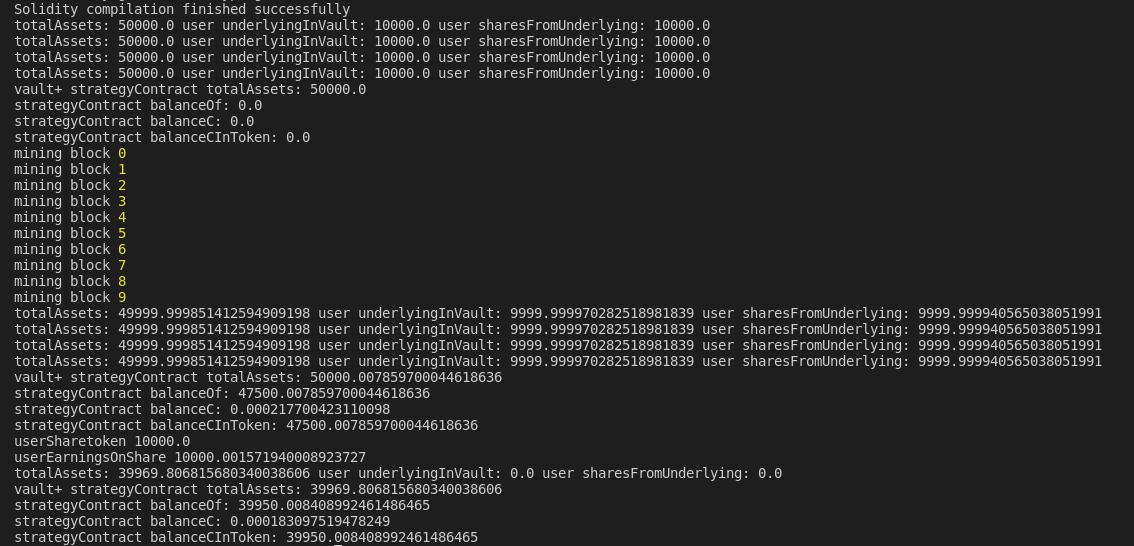
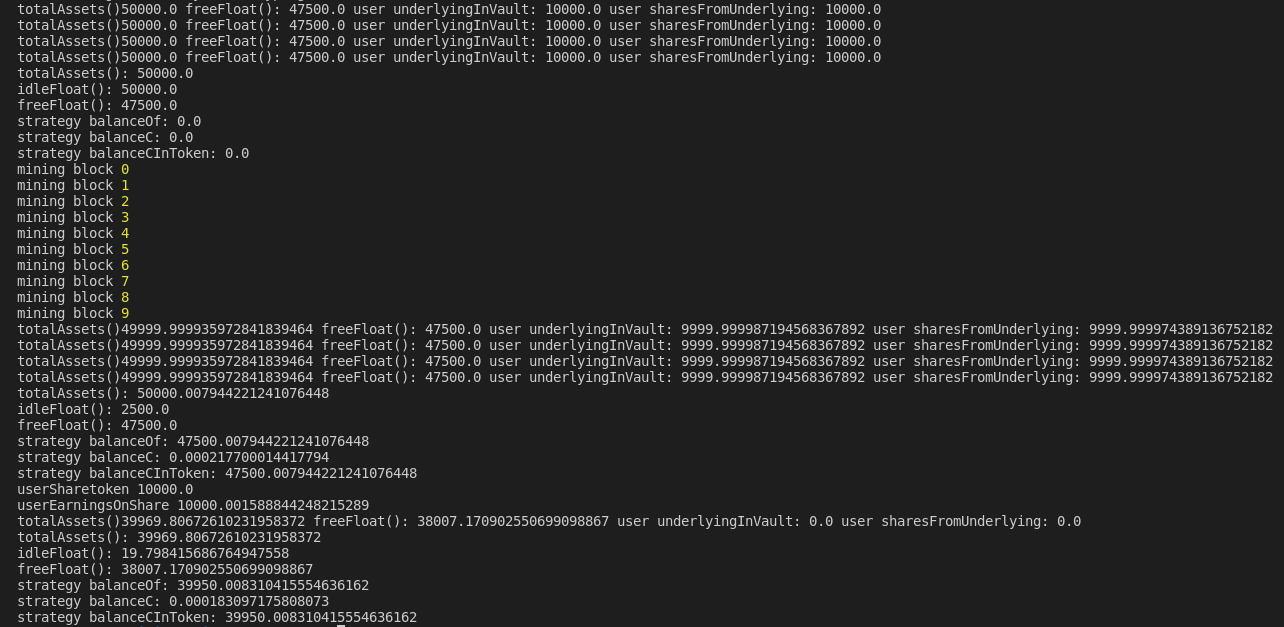
update: track funds with float logic, update to newest interface, example hook

Changed region(s): [[0.0, 0.0, 1.0, 1.0]]

diff --git a/scripts/helpers/helpers.ts b/scripts/helpers/helpers.ts
@@ -8,12 +8,12 @@ export async function checkUserBalances(signers: SignerWithAddress[], vaultContr
       const userUnderlyingInVault = await vaultInstance.assetsOf(signers[i].address);
       const userSharesFromUnderlying = await vaultInstance.previewRedeem(userUnderlyingInVault);
       const totalUnderlyingInVault = await vaultInstance.totalAssets();
-      const availableInVaultOutsideStrat = await vaultInstance.available();
+      const availableInVaultOutsideStrat = await vaultInstance.freeFloat();
       const result =
-        "vault+strategyContract totalAssets:: " +
-        ethers.utils.formatUnits(totalUnderlyingInVault) +
-        " availableInVaultOutsideStrat: " +
-        ethers.utils.formatUnits(availableInVaultOutsideStrat) +
+      "totalAssets()" +
+      ethers.utils.formatUnits(totalUnderlyingInVault) +
+      " freeFloat(): " +
+      ethers.utils.formatUnits(availableInVaultOutsideStrat) +
         " user underlyingInVault: " +
         ethers.utils.formatUnits(userUnderlyingInVault.toString()) +
         " user sharesFromUnderlying: " +
@@ -27,11 +27,11 @@ export async function checkSingleBalance(signer: SignerWithAddress, vaultContrac
       const userUnderlyingInVault = await vaultInstance.assetsOf(signer.address);
       const userSharesFromUnderlying = await vaultInstance.previewRedeem(userUnderlyingInVault);
       const totalUnderlyingInVault = await vaultInstance.totalAssets();
-      const availableInVaultOutsideStrat = await vaultInstance.available();
+      const availableInVaultOutsideStrat = await vaultInstance.freeFloat();
       const result =
-        "vault+strategyContract totalAssets: " +
+        "totalAssets()" +
         ethers.utils.formatUnits(totalUnderlyingInVault) +
-        " availableInVaultOutsideStrat: " +
+        " freeFloat(): " +
         ethers.utils.formatUnits(availableInVaultOutsideStrat) +
         " user underlyingInVault: " +
         ethers.utils.formatUnits(userUnderlyingInVault.toString()) +
@@ -43,19 +43,26 @@ export async function checkSingleBalance(signer: SignerWithAddress, vaultContrac
 
 export async function vaultBalanceSheet(vaultContract: Contract, strategyContract: Contract) {
     const balance = await vaultContract.totalAssets();
-    console.log("vault+strategyContract totalAssets:", ethers.utils.formatUnits(balance.toString()))
-    const availableInVaultOutsideStrat = await vaultContract.available();
-    console.log("availableInVaultOutsideStrat:", ethers.utils.formatUnits(availableInVaultOutsideStrat.toString()))
+    console.log("totalAssets():", ethers.utils.formatUnits(balance.toString()))
+
+    const availableInVaultOutsideStrat = await vaultContract.idleFloat();
+    console.log("idleFloat():", ethers.utils.formatUnits(availableInVaultOutsideStrat.toString()))
+
+    const availableToDepositIntoStrategy = await vaultContract.freeFloat();
+    console.log("freeFloat():", ethers.utils.formatUnits(availableToDepositIntoStrategy.toString()))
+
     const balanceOf = await strategyContract.balanceOf()
-    console.log("strategyContract balanceOf:", ethers.utils.formatUnits(balanceOf.toString()));
+    console.log("strategy balanceOf:", ethers.utils.formatUnits(balanceOf.toString()));
+
     const balanceC = await strategyContract.balanceC()
-    console.log("strategyContract balanceC:", ethers.utils.formatUnits(balanceC.toString()));
+    console.log("strategy balanceC:", ethers.utils.formatUnits(balanceC.toString()));
+
     const balanceCInToken = await strategyContract.balanceCInToken()
-    console.log("strategyContract balanceCInToken:", ethers.utils.formatUnits(balanceCInToken.toString()));
+    console.log("strategy balanceCInToken:", ethers.utils.formatUnits(balanceCInToken.toString()));
   }
 
 export async function mineBlocks() {
-    for (let index = 0; index < 137; index++) {
+    for (let index = 0; index < 10; index++) {
       console.log("mining block", index);
       await ethers.provider.send("evm_mine", []);
     }
